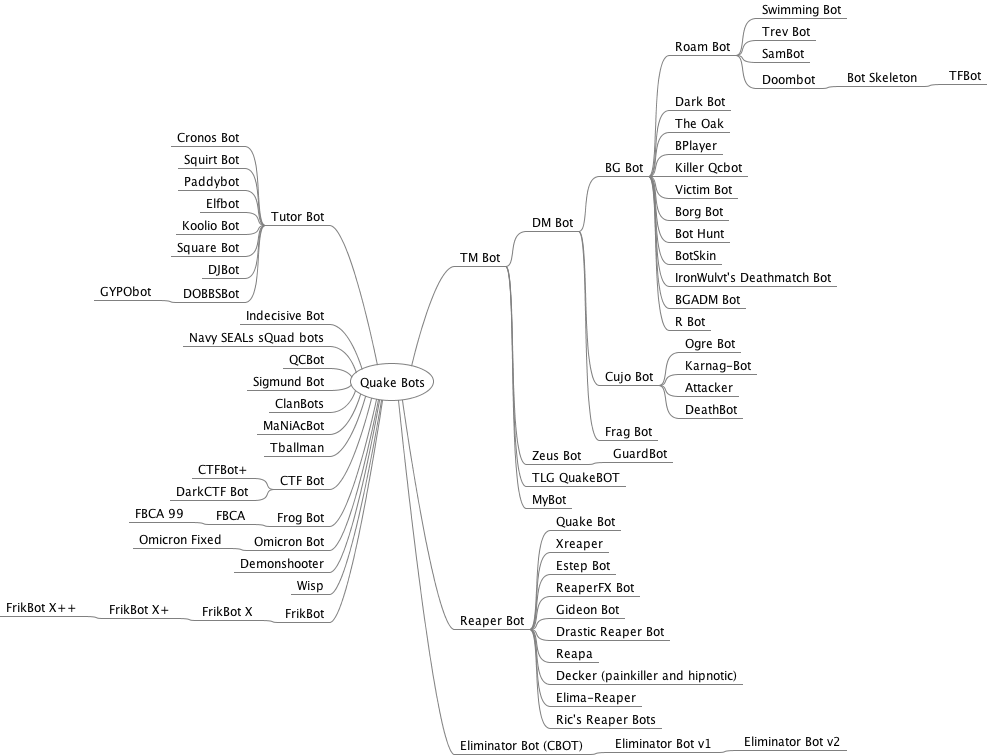
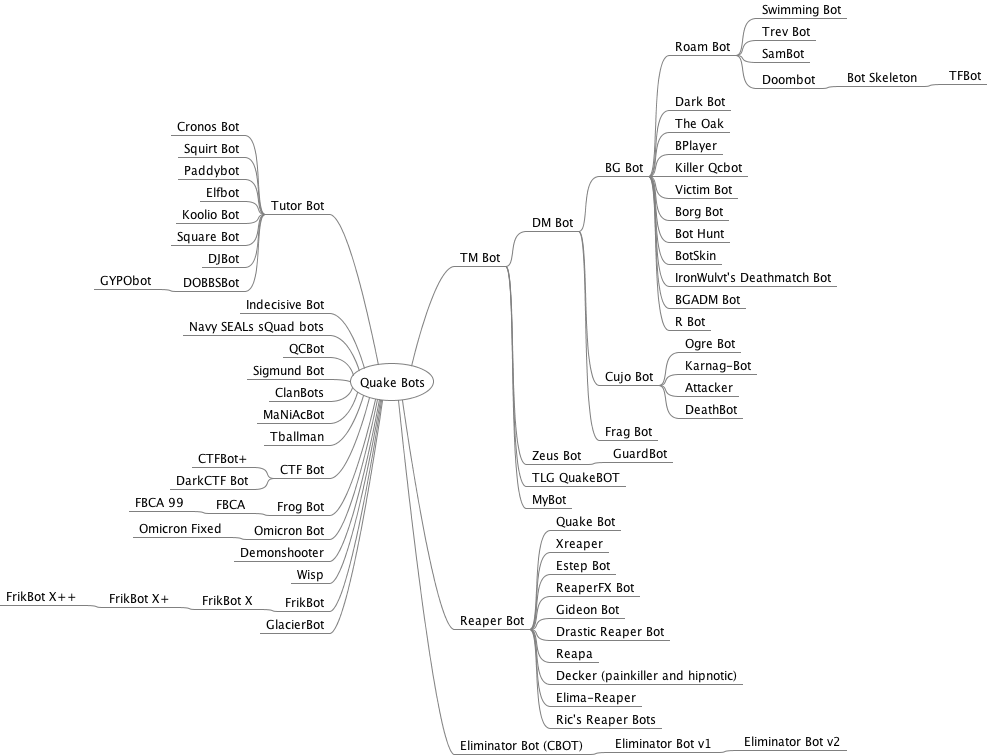
added GlacierBot

Changed region(s): [[0.0, 0.1523, 0.3951, 0.853], [0.3343, 0.3046, 0.3647, 0.3656], [0.0912, 0.3656, 0.152, 0.396]]

diff --git a/mindmap/QuakeBots.mm b/mindmap/QuakeBots.mm
@@ -1,6 +1,6 @@
 <map version="1.0.1">
 <!-- To view this file, download free mind mapping software FreeMind from http://freemind.sourceforge.net -->
-<node CREATED="1622514182273" ID="ID_507786403" MODIFIED="1622929964637" TEXT="Quake Bots">
+<node CREATED="1622514182273" ID="ID_507786403" MODIFIED="1622957860849" TEXT="Quake Bots">
 <node CREATED="1622514794312" ID="ID_565546253" MODIFIED="1622671396799" POSITION="left" TEXT="Tutor Bot">
 <node CREATED="1622514804704" ID="ID_11024833" MODIFIED="1622514812370" TEXT="Cronos Bot"/>
 <node CREATED="1622665755811" ID="ID_1110325053" MODIFIED="1622665757190" TEXT="Squirt Bot"/>
@@ -97,5 +97,6 @@
 </node>
 </node>
 </node>
+<node CREATED="1622957861665" ID="ID_11101189" MODIFIED="1622957862633" POSITION="left" TEXT="GlacierBot"/>
 </node>
 </map>

diff --git a/README.md b/README.md
@@ -52,6 +52,7 @@ Frogbot Clan Arena (FBCA) 0.99 | "Baker" | [frogbots-099.zip](bin/frogbots-099.z
 Frogbot Clan Arena (FBCA) | Alexey Pakhomov aka "ParboiL" | [fbca102kt.zip](bin/fbca102kt.zip) (*)
 Frogbot | Robert Field | [frogbot013.zip](bin/frogbot013.zip)
 Gideon Bot | Matthew Turvey | [gidbot.zip](bin/gidbot.zip)
+GlacierBot | "IceDagger" | gb027b.zip
 GuardBot | Peter van Wingerden | [grdbot23.zip](bin/grdbot23.zip)
 GYPObot | Stephen Dobbs | [gypobot.zip](bin/gypobot.zip)
 Indecisive Bot (Gyrobot) | Aaron Logue aka "Gyro Gearloose" | [gyrobot.zip](bin/gyrobot.zip)
